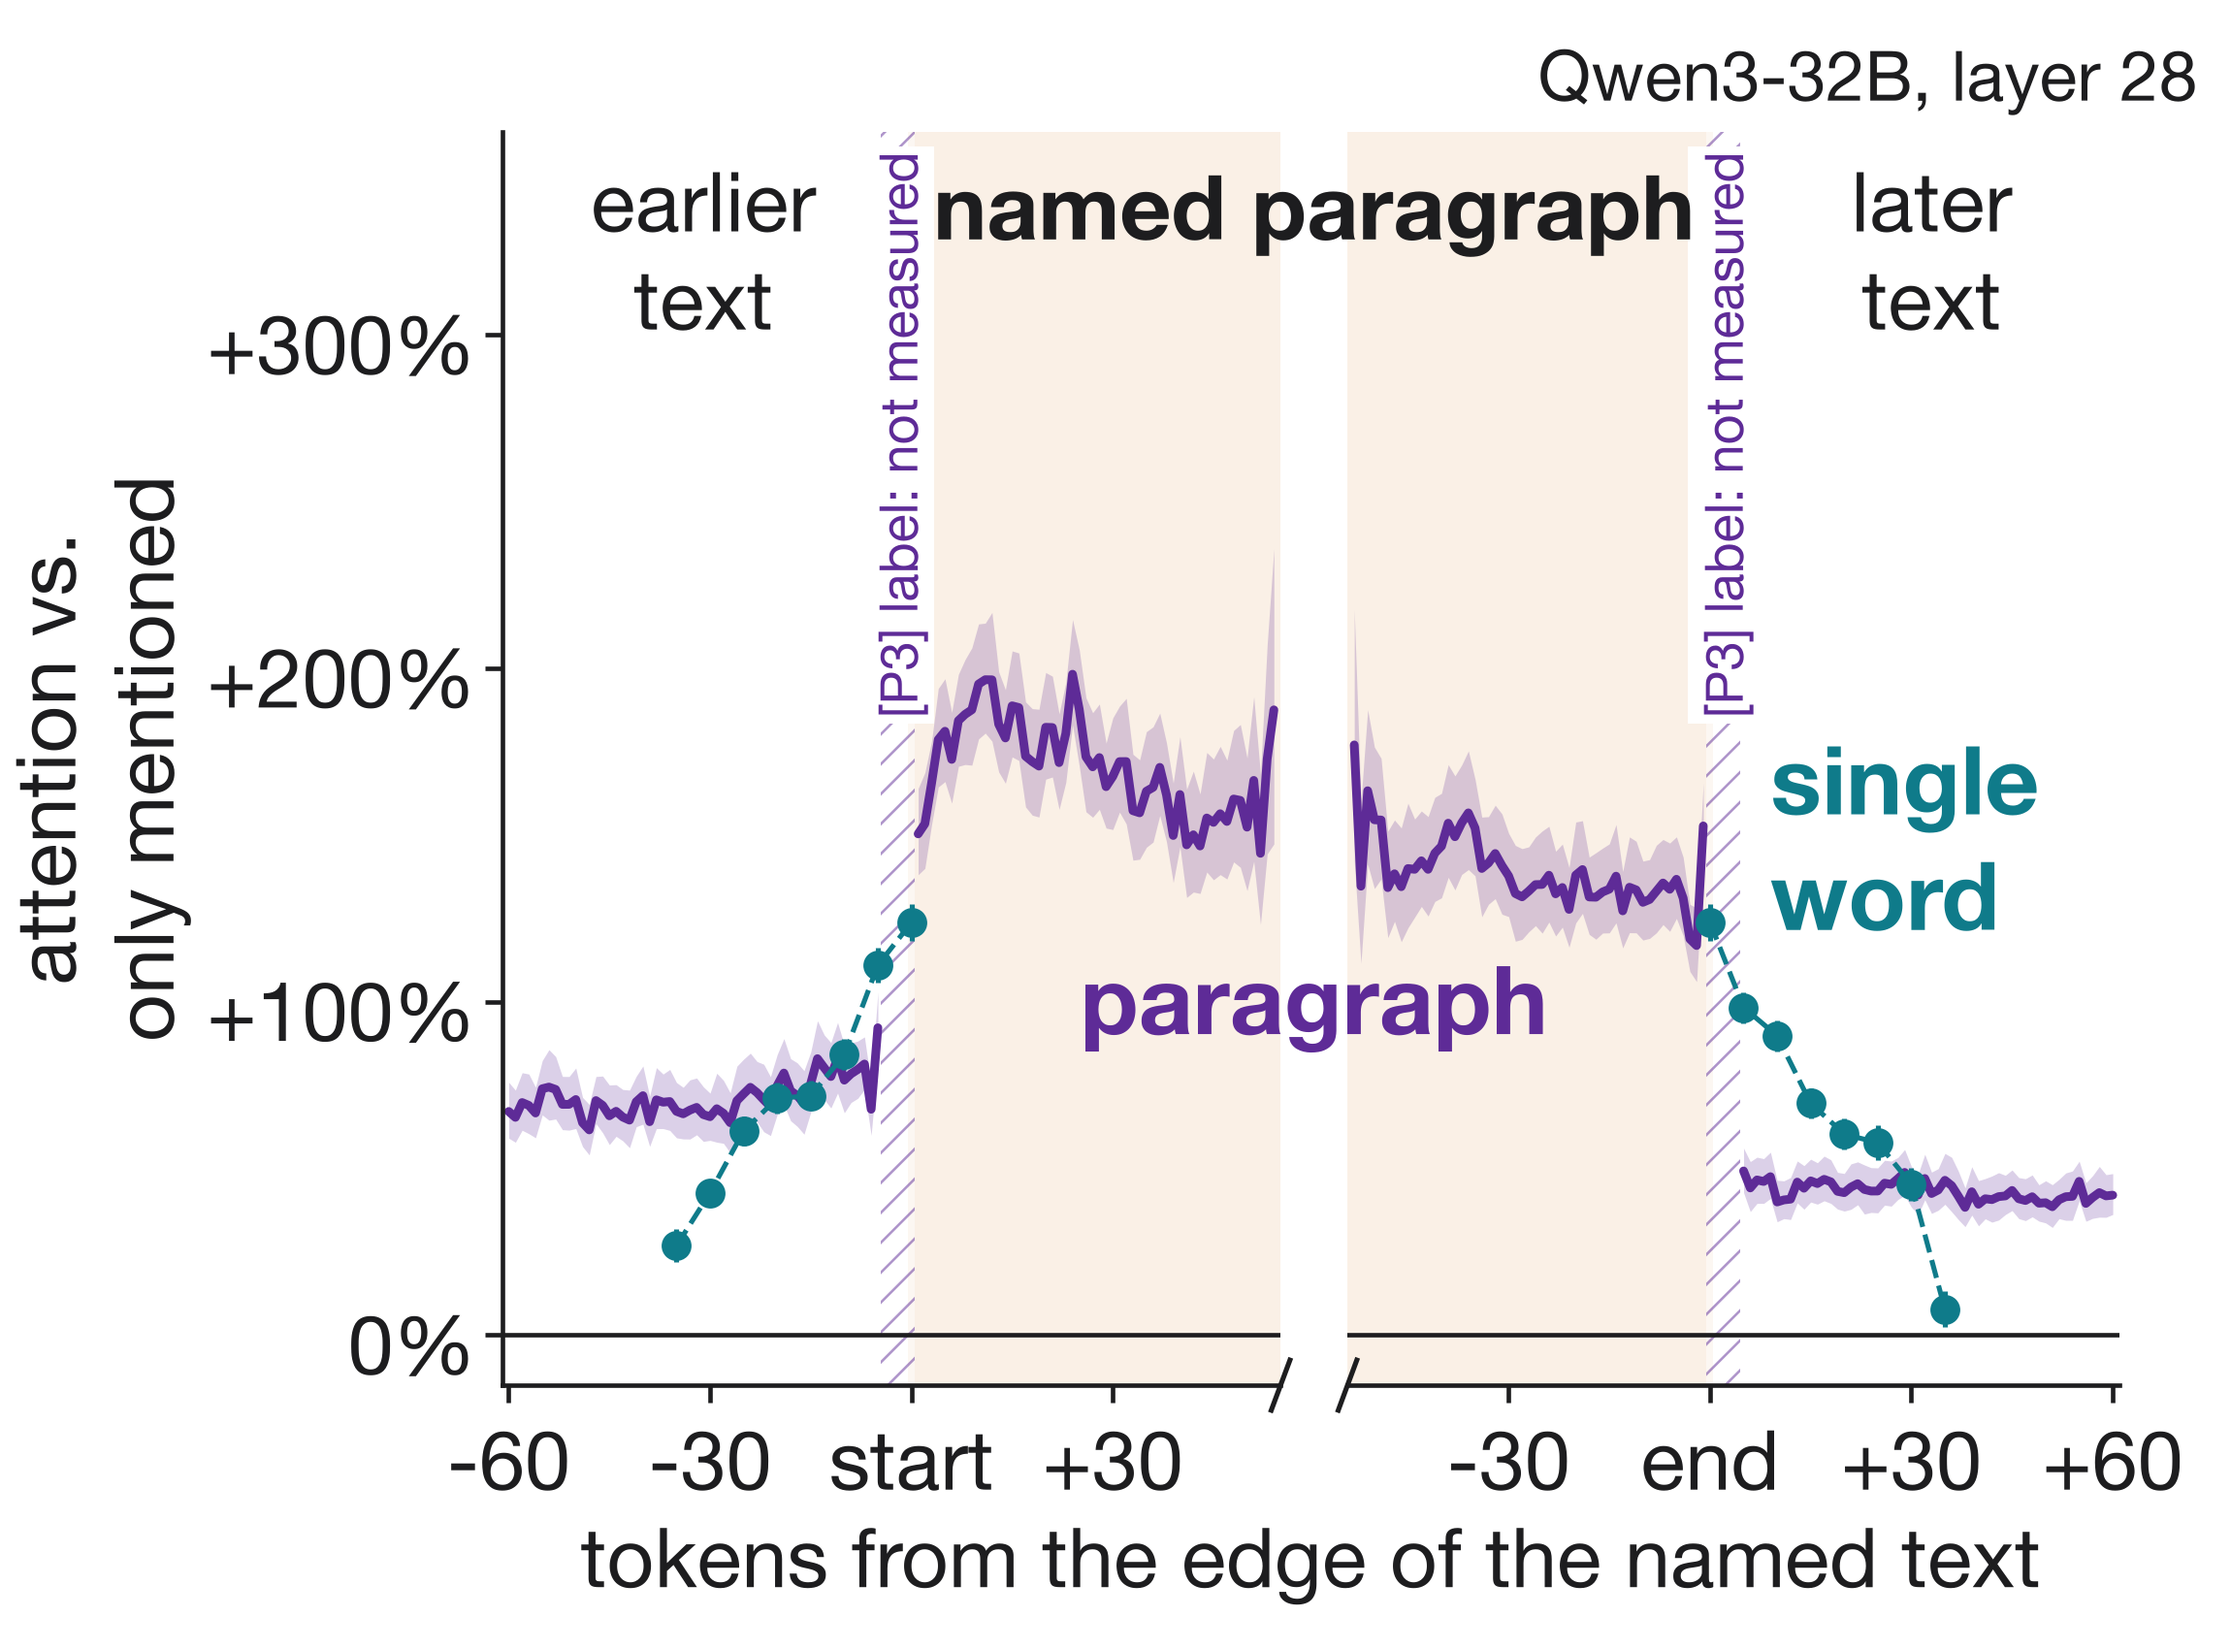
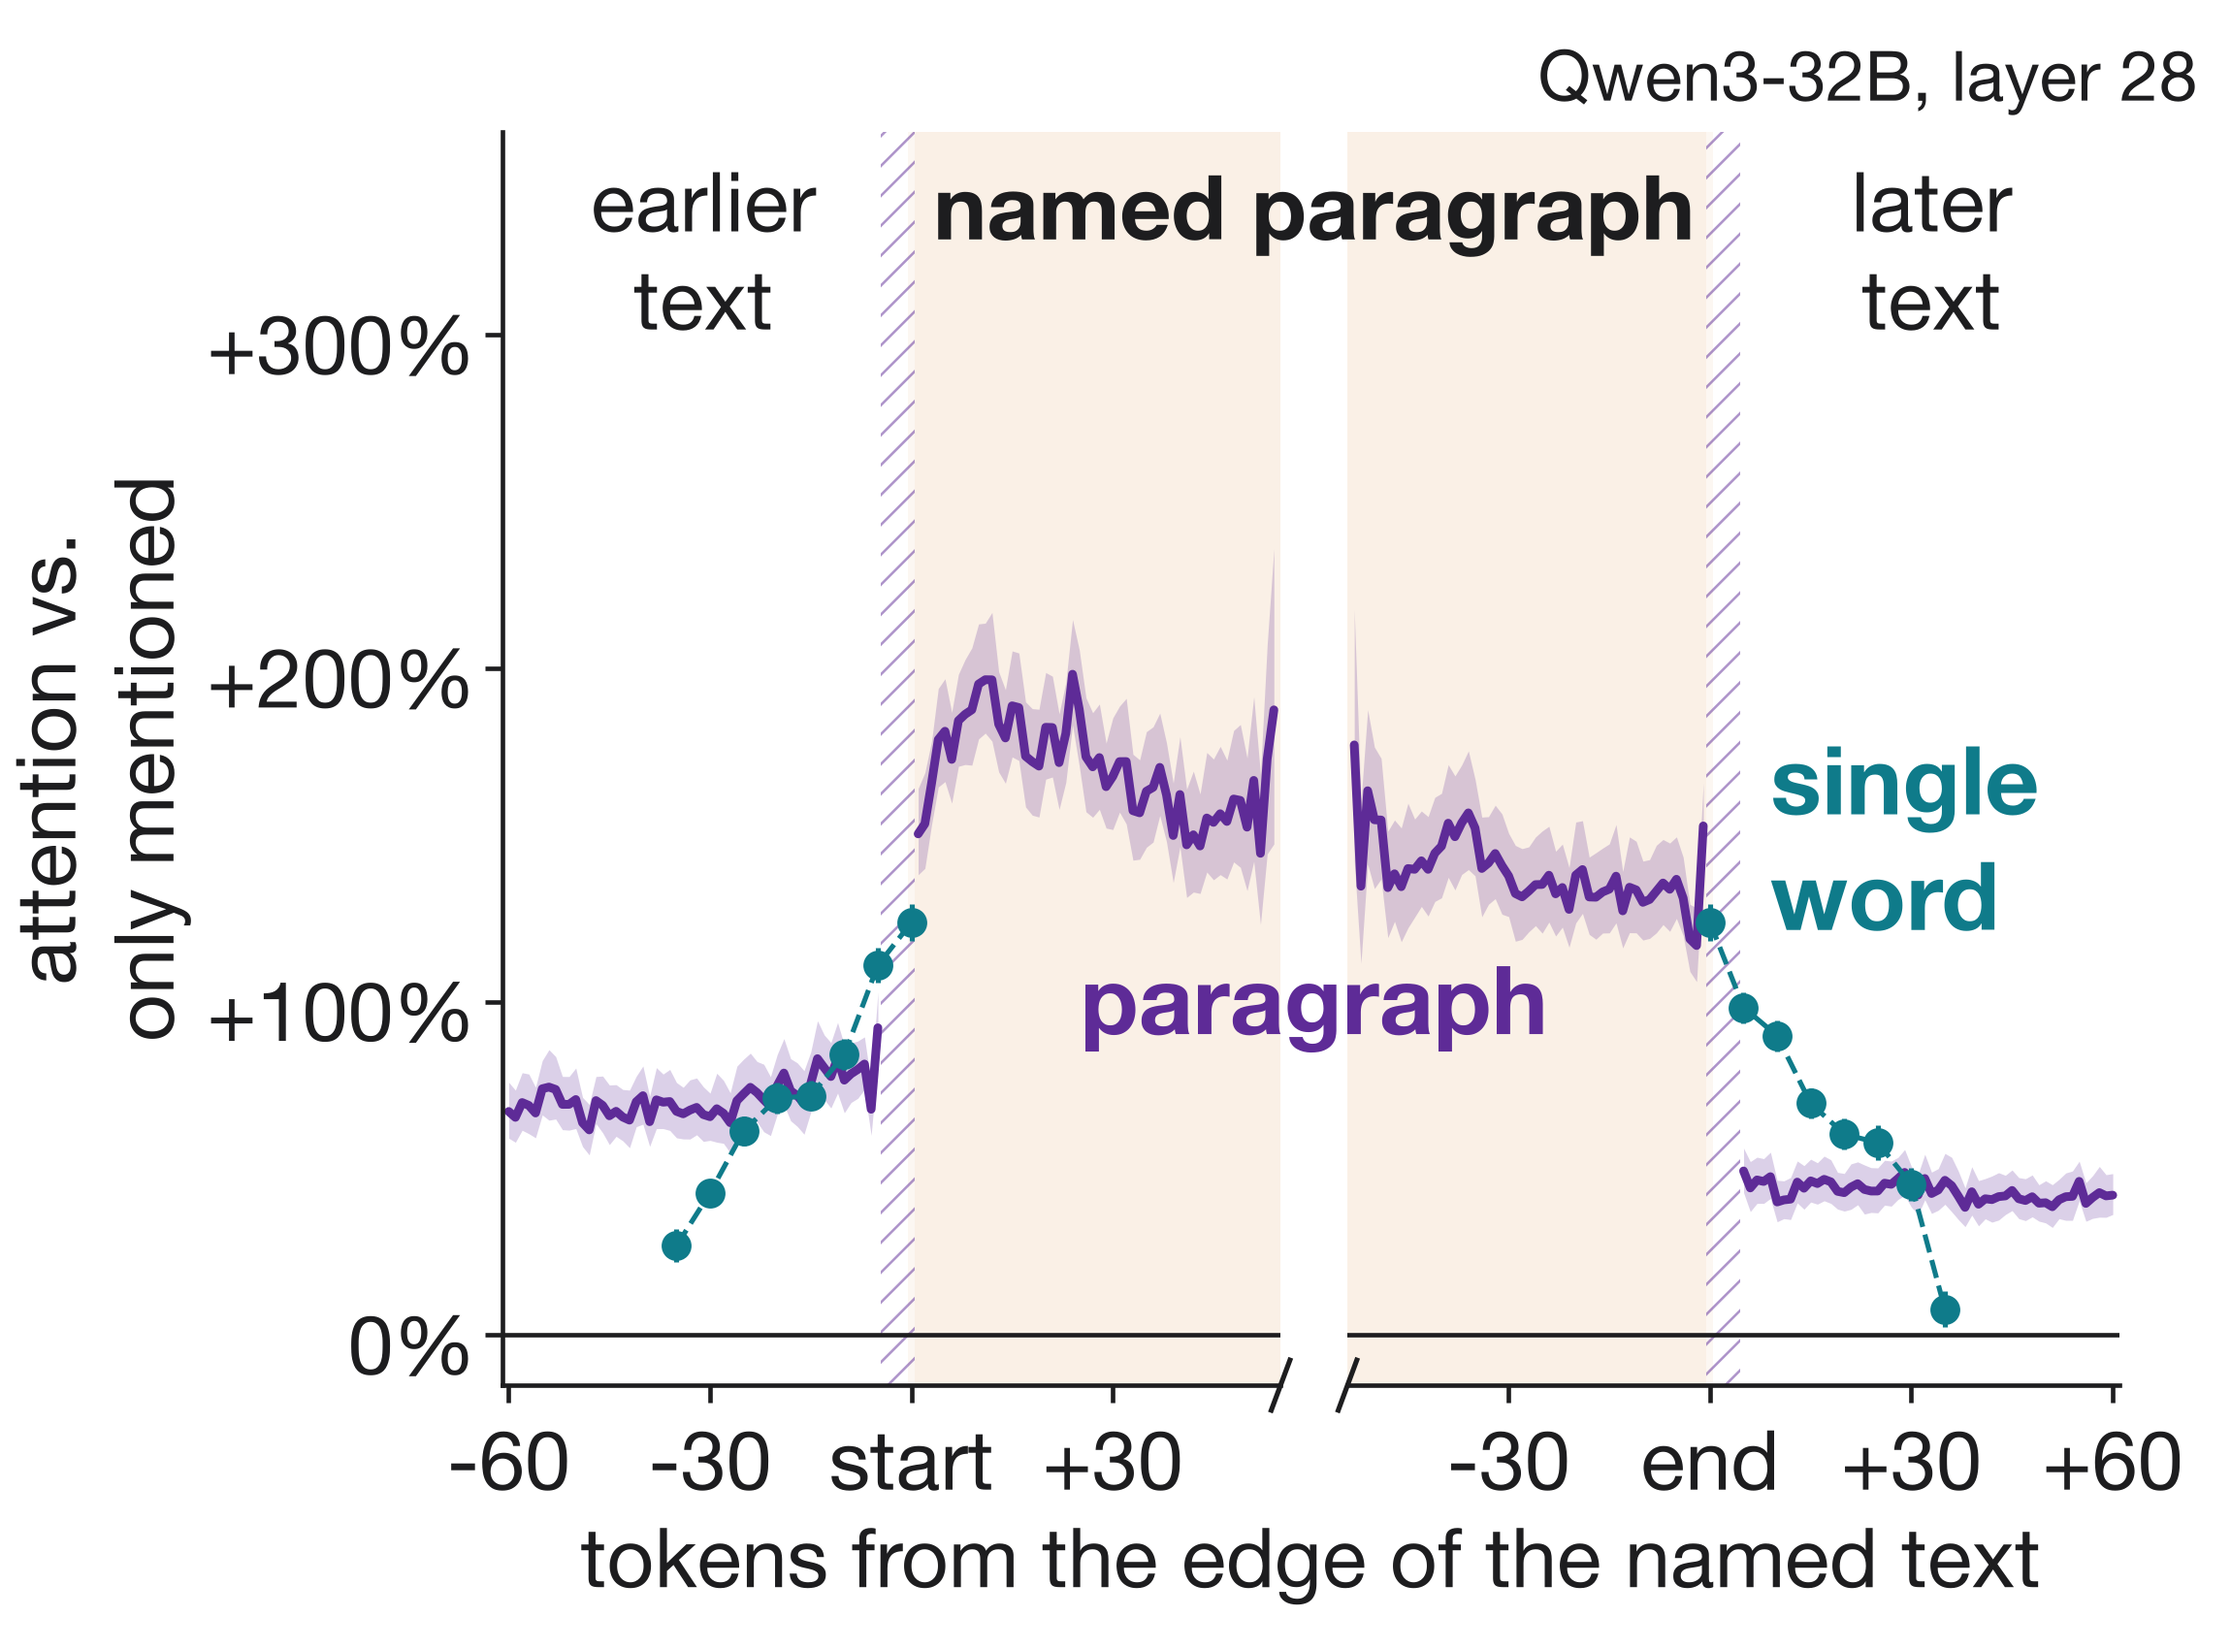
edge_decay: remove the '[P3] label: not measured' text (stripe stays)

Changed region(s): [[0.7409, 0.0935, 0.8026, 0.4365], [0.3704, 0.0935, 0.4322, 0.4365]]

diff --git a/figures/edge_decay.py b/figures/edge_decay.py
@@ -103,8 +103,6 @@ for ax, key, (x0, x1) in ((a1, "S", spanS), (a2, "E", spanE)):
     ax.add_patch(Rectangle((inside[0] - .5 if key == "S" else inside[0], lo), inside[1] - inside[0] + .5, hi - lo, color=CREAM, zorder=-2, lw=0))
     g0 = -4.5 if key == "S" else -.5  # 5 unmeasured tokens: S -4..0 (first word at 0), E 0..4 (the end token at 0)
     ax.add_patch(Rectangle((g0, lo), 5, hi - lo, facecolor="white", edgecolor=PURPLE, hatch="//", lw=0, alpha=.5, zorder=-1))
-    ax.text(g0 + 2.5, 270, "[P3] label: not measured", rotation=90, ha="center", va="center", fontsize=21, color=PURPLE,
-            bbox=dict(facecolor="white", edgecolor="none", pad=2))
     band(ax, PD["focus"][key][0], PD["focus"][key][1], PURPLE)
     m = (xw <= 0) if key == "S" else (xw >= 0)  # single words: one dot per word (words are 5 tokens apart), 95% CI as bars
     ax.errorbar(xw[m], Yw[m, 0], yerr=[Yw[m, 0] - Yw[m, 1], Yw[m, 2] - Yw[m, 0]], fmt="o", color=TEAL, ms=11, elinewidth=2, capsize=0, zorder=3)
